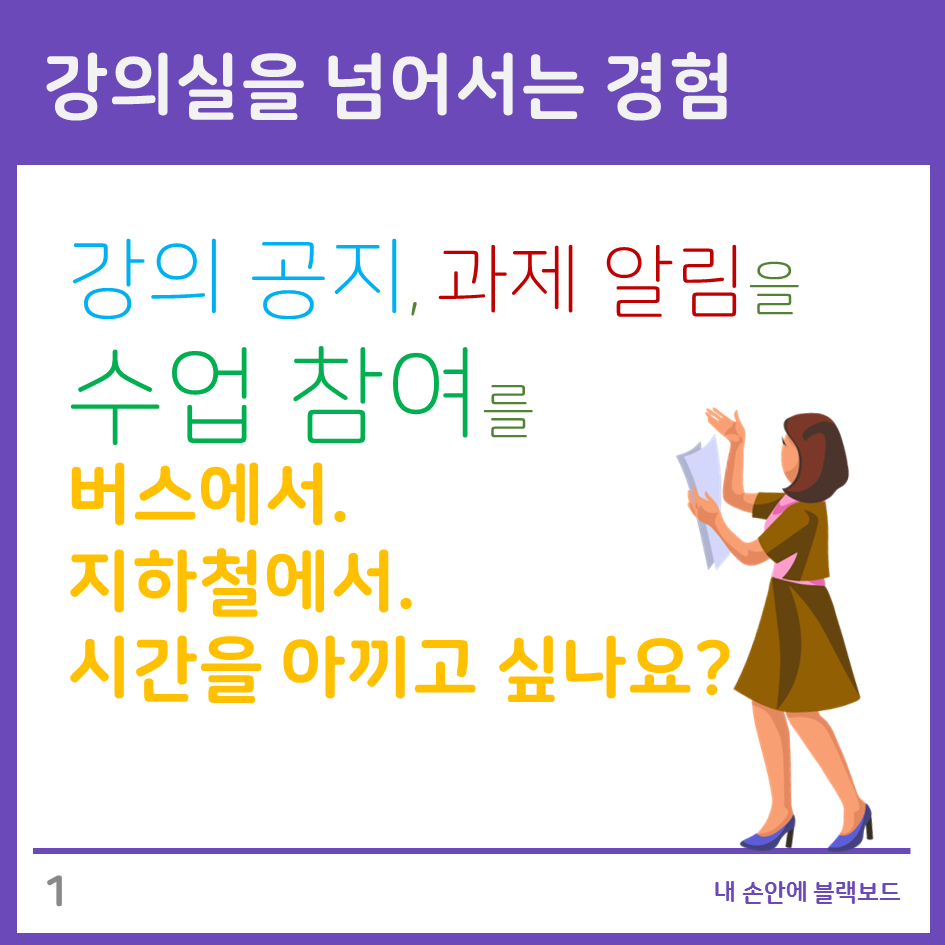
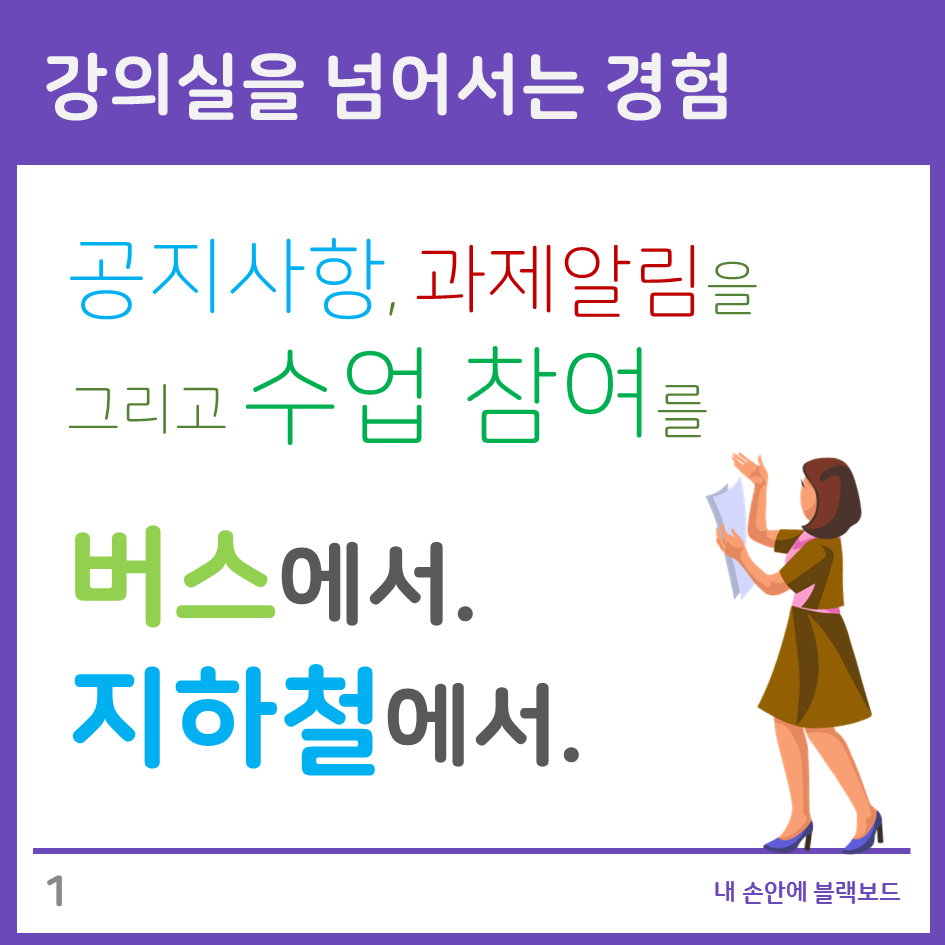
Updates d559-c2b5-c790/part-1-d1ba-c544-bcf4-ae30/baa8-bc14-c77c5d-c571-bc1b-ae30.md
Auto commit by GitBook Editor

Changed region(s): [[0.0614, 0.3683, 0.9513, 0.9206], [0.0921, 0.2455, 0.8593, 0.3376], [0.6138, 0.4296, 0.6444, 0.4603]]

diff --git a/d559-c2b5-c790/part-1-d1ba-c544-bcf4-ae30/baa8-bc14-c77c5d-c571-bc1b-ae30.md b/d559-c2b5-c790/part-1-d1ba-c544-bcf4-ae30/baa8-bc14-c77c5d-c571-bc1b-ae30.md
@@ -7,7 +7,7 @@
 ![](/assets/학습자가이드-모바일-슬라이드1.PNG)
 #### 내 손안에 강의실이 들어온다면 얼마나 좋을까요?
 ![](/assets/학습자가이드-모바일-슬라이드2.PNG)
-#### 자칫 낭비될 수 있는 등하교 시간에 강의를 예습하거나 복습해보세요.
+#### 자칫 낭비될 수 있는 등하교 시간에 강의를 복습하거나 예습해보세요.
 #### 훨씬, 시간을 효율적으로 이용하고 아낄 수 있을거에요.
 
 ![](/assets/학습자가이드-모바일-슬라이드3.PNG)
@@ -24,13 +24,13 @@
 
   
 ![](/assets/학습자가이드-모바일-슬라이드4.PNG)      
-#### 간단한 강의 공지, 과제 알림을 이메일로 볼 수 있어요.
+#### 간단한 강의 공지, 과제 알림을 학사포털에 등록된 이메일로 받아 볼 수도 있구요.
 ![](/assets/학습자가이드-모바일-슬라이드5.PNG)
-#### 더욱 더 많은 활동과 경혐을 누리시려면 앱에 로그인하세요.   
+#### 더욱 더 많은 강의 활동과 경험을 느끼시려면 앱에 로그인하세요.   
 
 <iframe width="100%" height="315" src="https://www.youtube.com/embed/E2QXqFaKuTg?ecver=1" frameborder="0" allow="autoplay; encrypted-media" allowfullscreen></iframe>
-> 자세한 내용은 유튜브를 참고하세요.
+> 앱 설치 및 모바일 로그인에 대한 자세한 내용은 유튜브를 참고하세요.
 
 
-#### 저희 이러닝지원팀은 학습자분들께서 모바일 사용자 경험을 최대로 누릴 수 있도록 지속적인 강의 콘텐츠 최적화를 진행하고 있습니다.
+#### 이러닝지원팀은 학습자분들께서 모바일 사용자 경험을 최대로 누릴 수 있도록 지속적인 강의 콘텐츠 최적화를 진행하고 있습니다.
 
